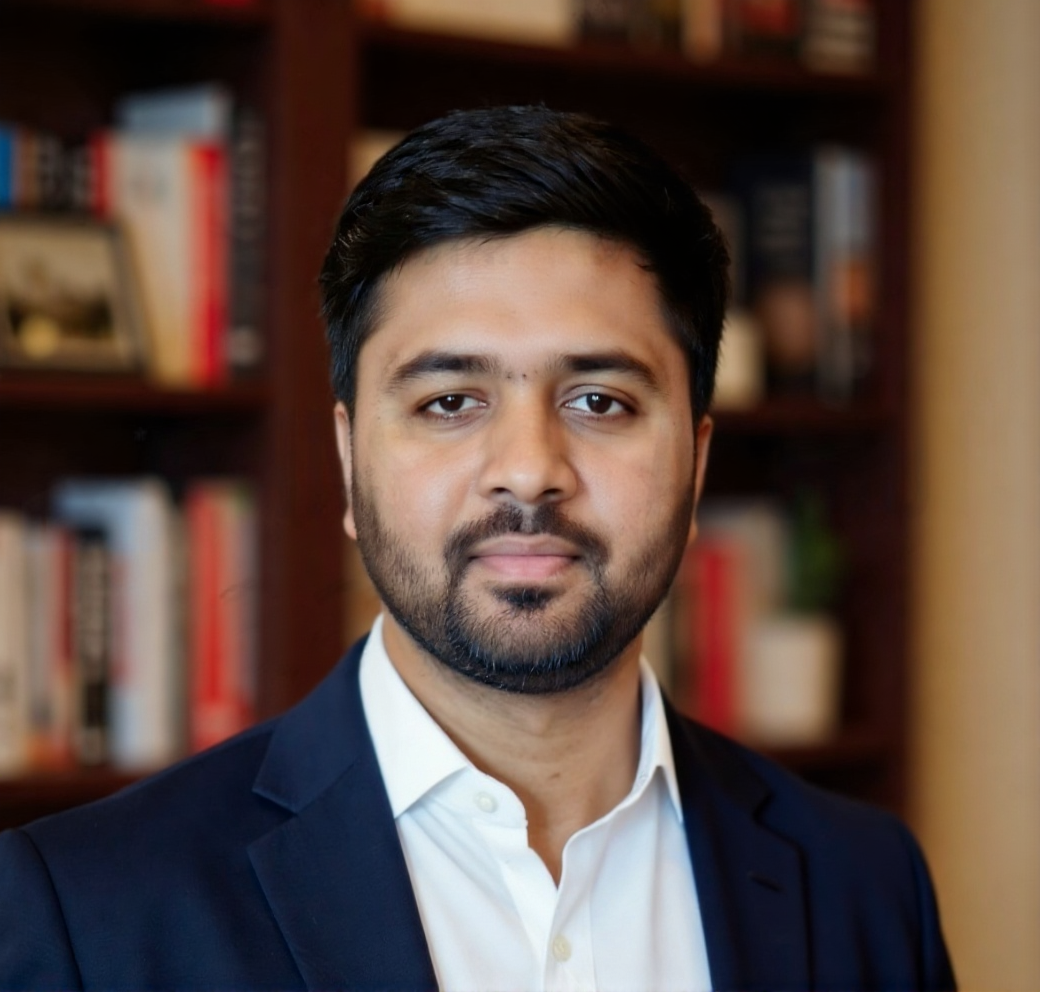
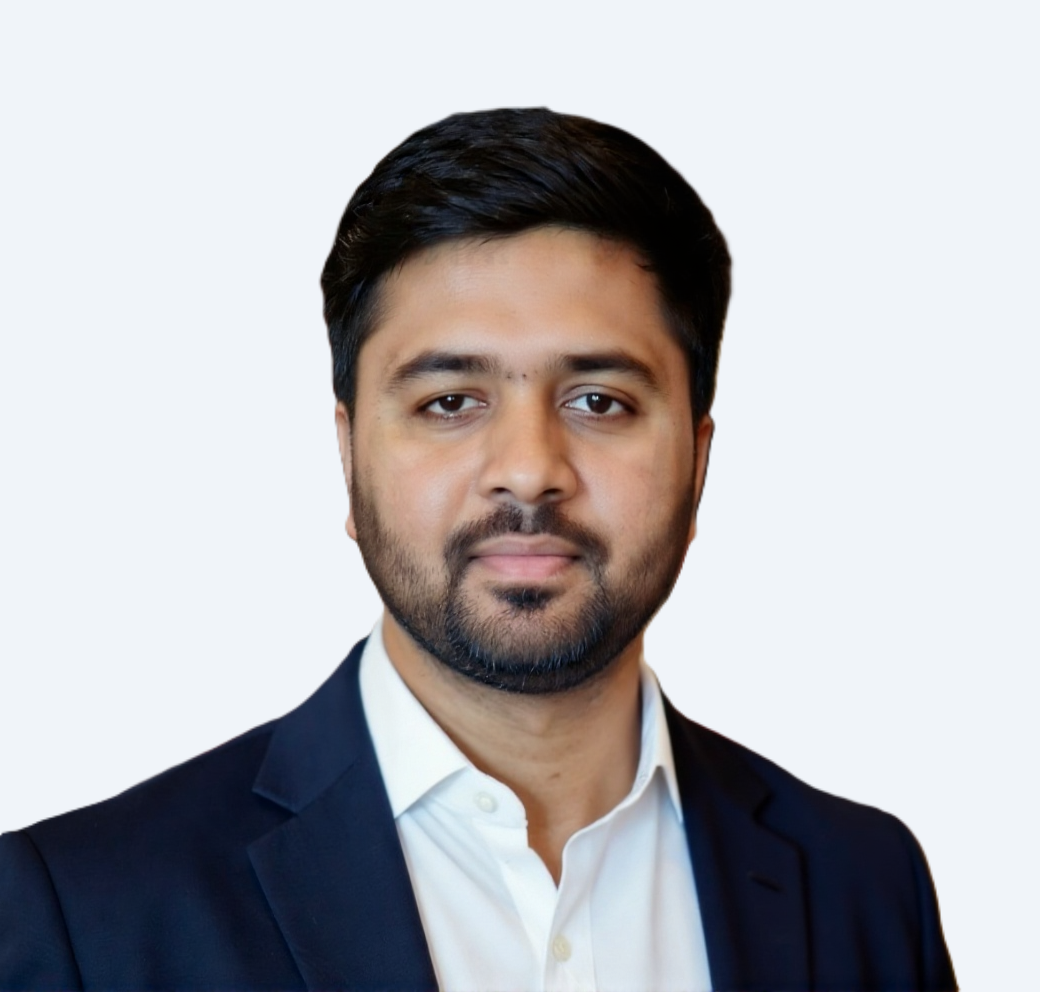
minor fixes

diff --git a/app/components/company/FocusAreas.tsx b/app/components/company/FocusAreas.tsx
@@ -1,10 +1,19 @@
 "use client";
 
+import { useRef } from "react";
 import Image from "next/image";
-import { motion, useReducedMotion } from "motion/react";
+import {
+  motion,
+  useReducedMotion,
+  useScroll,
+  useTransform,
+  useMotionValue,
+  useSpring,
+} from "motion/react";
 import { Pill, Heartbeat, Tree } from "@phosphor-icons/react";
 
 const EASE = [0.16, 1, 0.3, 1] as const;
+const TILT_SPRING = { stiffness: 150, damping: 18, mass: 0.4 } as const;
 
 const AREAS = [
   {
@@ -26,6 +35,36 @@ const AREAS = [
 
 export default function FocusAreas() {
   const reduce = useReducedMotion();
+  const visualRef = useRef<HTMLDivElement>(null);
+  const { scrollYProgress } = useScroll({
+    target: visualRef,
+    offset: ["start end", "end start"],
+  });
+
+  // Scroll parallax: the popped-out subject drifts upward as it passes through,
+  // reinforcing the sense that it's lifting off the frame.
+  const imgY = useTransform(scrollYProgress, [0, 1], ["10%", "-12%"]);
+  // ...and enlarges as it scrolls into view, so it grows out of the frame.
+  const imgScale = useTransform(scrollYProgress, [0, 0.55, 1], [0.86, 1.08, 1.14]);
+
+  // Pointer-driven 3D tilt — like the depth you get through 3D glasses. We map
+  // the cursor position over the frame to a rotateX/rotateY, spring-smoothed.
+  const px = useMotionValue(0);
+  const py = useMotionValue(0);
+  const rotateX = useSpring(useTransform(py, [-0.5, 0.5], [12, -12]), TILT_SPRING);
+  const rotateY = useSpring(useTransform(px, [-0.5, 0.5], [-16, 16]), TILT_SPRING);
+
+  const handlePointerMove = (e: React.PointerEvent<HTMLDivElement>) => {
+    if (reduce) return;
+    const rect = e.currentTarget.getBoundingClientRect();
+    px.set((e.clientX - rect.left) / rect.width - 0.5);
+    py.set((e.clientY - rect.top) / rect.height - 0.5);
+  };
+  const resetTilt = () => {
+    px.set(0);
+    py.set(0);
+  };
+
   return (
     <section aria-labelledby="focus-heading" className="py-20 lg:py-28">
       <div className="max-w-7xl mx-auto px-6 grid grid-cols-1 lg:grid-cols-12 gap-12 lg:gap-16 items-center">
@@ -37,15 +76,51 @@ export default function FocusAreas() {
           transition={{ duration: 0.7, ease: EASE }}
           className="lg:col-span-5 order-2 lg:order-1"
         >
-          <div className="relative rounded-[1.75rem] overflow-hidden border border-[var(--color-hairline)] bg-[var(--color-surface-raised)]">
-            <Image
-              src="/images/applications.png"
-              alt="Tissue constructs and scaffolds bioprinted on NBIL systems"
-              width={900}
-              height={760}
-              className="w-full h-auto object-cover"
-              sizes="(max-width: 1024px) 90vw, 40vw"
-            />
+          <div
+            ref={visualRef}
+            onPointerMove={handlePointerMove}
+            onPointerLeave={resetTilt}
+            className="relative [perspective:1200px]"
+          >
+            <motion.div
+              style={reduce ? undefined : { rotateX, rotateY }}
+              className="relative [transform-style:preserve-3d]"
+            >
+              {/* The stage / frame the subject lifts out of */}
+              <div className="relative aspect-[7/5] rounded-[1.75rem] overflow-hidden border border-[var(--color-hairline)] bg-[var(--color-surface-raised)]">
+                {/* soft inner depth so the frame reads as a recessed screen */}
+                <div
+                  aria-hidden="true"
+                  className="absolute inset-0"
+                  style={{
+                    background:
+                      "radial-gradient(120% 90% at 50% 10%, transparent 40%, rgba(2,12,27,0.10) 100%)",
+                  }}
+                />
+                {/* grounding shadow the subject appears to cast on the stage */}
+                <div
+                  aria-hidden="true"
+                  className="absolute inset-x-[12%] bottom-[8%] h-[16%] rounded-[50%] blur-2xl"
+                  style={{ background: "rgba(2,12,27,0.28)" }}
+                />
+              </div>
+
+              {/* Popped-out subject: transparent PNG lifted above the frame,
+                  pushed toward the viewer on the Z axis and casting a shadow. */}
+              <motion.div
+                style={reduce ? undefined : { y: imgY, scale: imgScale, z: 70 }}
+                className="pointer-events-none absolute inset-0 grid place-items-center will-change-transform"
+              >
+                <Image
+                  src="/images/applications.png"
+                  alt="Tissue constructs and scaffolds bioprinted on NBIL systems"
+                  width={637}
+                  height={333}
+                  className="w-[116%] max-w-none h-auto object-contain -translate-y-[14%] drop-shadow-[0_34px_44px_rgba(2,12,27,0.34)]"
+                  sizes="(max-width: 1024px) 90vw, 40vw"
+                />
+              </motion.div>
+            </motion.div>
           </div>
         </motion.div>
 

diff --git a/components/ui/integration-hero.tsx b/components/ui/integration-hero.tsx
@@ -31,21 +31,21 @@ const PARTNERS: Item[] = [
 
 function Chip({ item }: { item: Item }) {
   return (
-    <div className="flex shrink-0 items-center gap-3.5 rounded-full border border-[var(--color-hairline)] bg-[var(--color-surface)] pl-3 pr-6 py-2.5 shadow-[0_1px_2px_rgba(2,12,27,0.04)]">
+    <div className="flex shrink-0 items-center gap-4 rounded-full border border-[var(--color-hairline)] bg-[var(--color-surface)] pl-3.5 pr-8 py-3 shadow-[0_1px_2px_rgba(2,12,27,0.04)]">
       {item.logo ? (
-        <span className="grid size-14 place-items-center rounded-full bg-white">
+        <span className="grid size-25 place-items-center rounded-full bg-white">
           {/* eslint-disable-next-line @next/next/no-img-element */}
-          <img src={item.logo} alt={item.name} className="h-10 w-10 object-contain" loading="lazy" />
+          <img src={item.logo} alt={item.name} className="h-20 w-20 object-contain" loading="lazy" />
         </span>
       ) : (
         <span
           aria-hidden="true"
-          className="grid size-14 place-items-center rounded-full bg-[var(--color-brand-surface)] text-[18px] font-semibold text-[var(--color-brand-strong)]"
+          className="grid size-20 place-items-center rounded-full bg-[var(--color-brand-surface)] text-[24px] font-semibold text-[var(--color-brand-strong)]"
         >
           {item.name.replace(/^(Govt\. of|The)\s+/i, "").trim().charAt(0)}
         </span>
       )}
-      <span className="whitespace-nowrap text-[15px] font-medium text-[var(--color-ink-muted)]">
+      <span className="whitespace-nowrap text-[18px] font-medium text-[var(--color-ink-muted)]">
         {item.name}
       </span>
     </div>

diff --git a/app/components/team/TeamLanding.tsx b/app/components/team/TeamLanding.tsx
@@ -21,7 +21,7 @@ const TEAM: TeamMember[] = [
   { id: "t1", name: "Gowthaman S P", role: "Senior R&D Engineer", image: "/team/Gowthaman-Photoroom.jpeg", social: { linkedin: "https://www.linkedin.com/in/gowthaman2/" } },
   { id: "t3", name: "Maria Da Costa", role: "Biofabrication Specialist", image: "/team/MariaDC.webp", social: { linkedin: "https://www.linkedin.com/in/maria-dacosta/" } },
   { id: "t4", name: "Aseem Gupta", role: "Jr. Engineer · Software & AI", image: "/team/Aseem Gupta.jpeg", social: { linkedin: "https://www.linkedin.com/in/theaseemgupta/" } },
-  { id: "t5", name: "Saatvik S Shastry", role: "Jr. Engineer · Software & AI", image: "/team/Saatvik.jpeg", social: { linkedin: "https://www.linkedin.com/in/saatvik-shastry-a9a38a212/" } },
+  { id: "t5", name: "Saatvik S Shastry a.k.a Jacked Brahmin", role: "Jr. Engineer · Software & AI", image: "/team/Saatik.jpg", social: { linkedin: "https://www.linkedin.com/in/saatvik-shastry-a9a38a212/" } },
   { id: "t6", name: "Gargi Chakraborty", role: "Marketing & Ops Associate", image: "/team/Gargi.webp", social: { linkedin: "https://www.linkedin.com/in/gargichakraborty14/" } },
   { id: "t7", name: "Aalim Hussain", role: "Mechanical Engineer", image: "/team/Aalim.png", social: { linkedin: "https://www.linkedin.com/in/aalim-hussain-mechanical-engineer/" } },
   { id: "t8", name: "Snehangshu Sengupta", role: "Mechanical Engineer", image: "/team/Snehangshu.jpg", social: { linkedin: "https://www.linkedin.com/in/snehangshu-sengupta-9251091b1/" } },